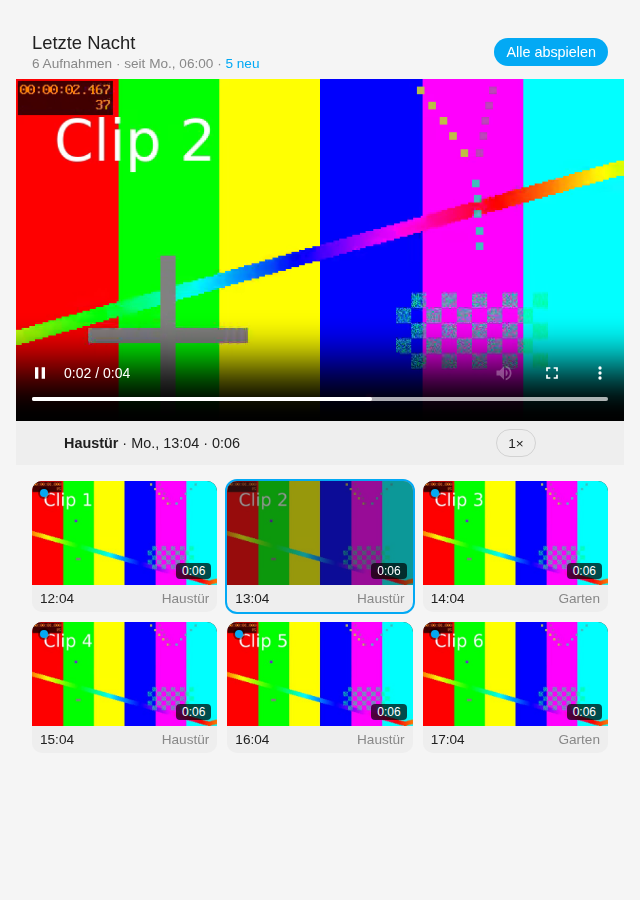
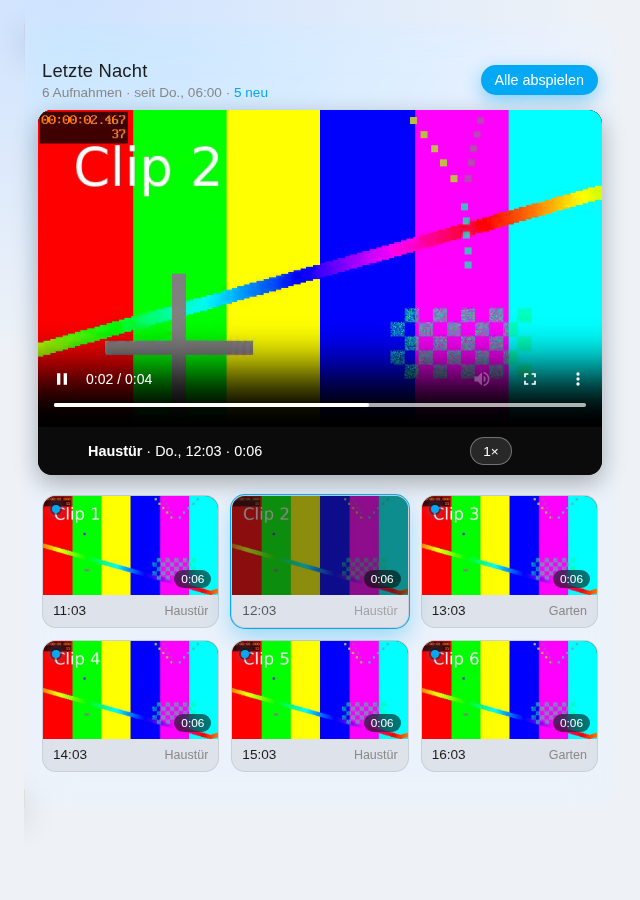
Glass look for the card, variant and CSS variables

diff --git a/custom_components/ss_recordings/frontend/ss-recordings-card.js b/custom_components/ss_recordings/frontend/ss-recordings-card.js
@@ -1,4 +1,4 @@
-const CARD_VERSION = "0.1.0";
+const CARD_VERSION = "0.2.0";
 
 const STRINGS = {
   en: {
@@ -73,6 +73,8 @@ class SSRecordingsCard extends HTMLElement {
       this.attachShadow({ mode: "open" });
     }
     this._items = null;
+    this._lastBody = null;
+    if (this.shadowRoot) this.shadowRoot.innerHTML = "";
     this._render();
     if (this._hass) this._load();
   }
@@ -142,8 +144,9 @@ class SSRecordingsCard extends HTMLElement {
 
   _shell() {
     if (this.shadowRoot.querySelector("ha-card")) return;
+    const variant = this._config.variant === "plain" ? "plain" : "glass";
     this.shadowRoot.innerHTML = `<style>${STYLE}</style>
-      <ha-card><div class="head"></div><div class="slot"></div><div class="body"></div></ha-card>`;
+      <ha-card class="${variant}"><div class="head"></div><div class="slot"></div><div class="body"></div></ha-card>`;
     this.shadowRoot.querySelector("ha-card").addEventListener("click", (ev) => {
       const el = ev.target.closest("[data-i],[data-act]");
       if (!el) return;
@@ -315,44 +318,109 @@ class SSRecordingsCard extends HTMLElement {
 }
 
 const STYLE = `
-  ha-card { overflow: hidden; }
-  .head { display: flex; align-items: center; justify-content: space-between; gap: 12px; padding: 16px 16px 8px; }
-  .title { font-size: 1.15em; font-weight: 500; color: var(--primary-text-color); }
-  .sub { font-size: .85em; color: var(--secondary-text-color); margin-top: 2px; }
-  .sub .new { color: var(--primary-color); font-weight: 500; }
+  :host {
+    --ss-accent: var(--ss-recordings-accent, var(--primary-color));
+    --ss-radius: var(--ss-recordings-radius, 18px);
+    --ss-blur: var(--ss-recordings-blur, 20px);
+    --ss-tint: var(--ss-recordings-tint, var(--card-background-color, #fff));
+  }
+  ha-card { overflow: hidden; border-radius: var(--ss-radius); }
+  ha-card.glass {
+    position: relative;
+    background: rgba(130, 130, 130, .18);
+    background: linear-gradient(
+      155deg,
+      color-mix(in srgb, var(--ss-tint) 66%, transparent),
+      color-mix(in srgb, var(--ss-tint) 38%, transparent)
+    );
+    border: 1px solid rgba(140, 140, 140, .25);
+    border: 1px solid color-mix(in srgb, var(--primary-text-color) 12%, transparent);
+    backdrop-filter: blur(var(--ss-blur)) saturate(165%);
+    -webkit-backdrop-filter: blur(var(--ss-blur)) saturate(165%);
+    box-shadow: 0 12px 34px rgba(0, 0, 0, .2), inset 0 1px 0 rgba(255, 255, 255, .22);
+  }
+  ha-card.glass::before {
+    content: "";
+    position: absolute;
+    inset: 0 0 auto;
+    height: 45%;
+    pointer-events: none;
+    background: linear-gradient(rgba(255, 255, 255, .16), transparent);
+  }
+  .head { position: relative; display: flex; align-items: center; justify-content: space-between; gap: 12px; padding: 18px 18px 10px; }
+  .title { font-size: 1.15em; font-weight: 500; letter-spacing: .01em; color: var(--primary-text-color); }
+  .sub { font-size: .85em; color: var(--secondary-text-color); margin-top: 3px; }
+  .sub .new { color: var(--ss-accent); font-weight: 500; }
   .actions { display: flex; align-items: center; gap: 4px; flex-shrink: 0; }
   button { font: inherit; cursor: pointer; border: none; background: none; color: inherit; }
-  .play { display: flex; align-items: center; gap: 4px; padding: 6px 12px 6px 8px; border-radius: 18px;
-    background: var(--primary-color); color: var(--text-primary-color, #fff); font-weight: 500; font-size: .9em; }
+  .play {
+    display: flex; align-items: center; gap: 4px; padding: 7px 14px 7px 9px; border-radius: 999px;
+    background: var(--ss-accent); color: var(--text-primary-color, #fff); font-weight: 500; font-size: .9em;
+    transition: transform .15s ease, box-shadow .15s ease;
+  }
+  .play:hover { transform: translateY(-1px); }
   .play ha-icon { --mdc-icon-size: 20px; }
-  .icon { display: grid; place-items: center; width: 36px; height: 36px; border-radius: 50%; color: var(--secondary-text-color); }
-  .icon:hover { background: var(--secondary-background-color); }
-  .player { background: #000; margin: 0 0 8px; }
+  .icon { display: grid; place-items: center; width: 36px; height: 36px; border-radius: 50%; color: var(--secondary-text-color); transition: background .15s ease; }
+  .icon:hover { background: rgba(140, 140, 140, .2); }
+  .glass .play { box-shadow: 0 6px 18px color-mix(in srgb, var(--ss-accent) 45%, transparent); }
+  .glass .icon:hover { background: color-mix(in srgb, var(--primary-text-color) 10%, transparent); }
+  .player { position: relative; background: #000; margin: 0 0 10px; }
   .player video { display: block; width: 100%; max-height: 60vh; background: #000; }
-  .bar { display: flex; align-items: center; gap: 4px; padding: 4px 8px; background: var(--secondary-background-color); }
+  .bar { display: flex; align-items: center; gap: 4px; padding: 6px 10px; background: var(--secondary-background-color); }
+  .glass .player { margin: 0 14px 12px; border-radius: 14px; overflow: hidden; box-shadow: 0 8px 24px rgba(0, 0, 0, .3); }
+  .glass .bar {
+    background: rgba(20, 20, 20, .55);
+    color: #fff;
+    backdrop-filter: blur(14px);
+    -webkit-backdrop-filter: blur(14px);
+  }
   .caption { flex: 1; min-width: 0; font-size: .9em; color: var(--primary-text-color); white-space: nowrap; overflow: hidden; text-overflow: ellipsis; }
-  .speed { min-width: 40px; height: 28px; border-radius: 14px; font-size: .85em; font-weight: 500;
+  .glass .caption, .glass .bar .icon { color: #fff; }
+  .glass .bar .icon:hover { background: rgba(255, 255, 255, .16); }
+  .speed { min-width: 42px; height: 28px; border-radius: 999px; font-size: .85em; font-weight: 500;
     color: var(--primary-text-color); border: 1px solid var(--divider-color); }
-  .grid { display: grid; grid-template-columns: repeat(auto-fill, minmax(140px, 1fr)); gap: 10px; padding: 8px 16px 16px; }
-  .day { grid-column: 1 / -1; font-size: .8em; font-weight: 500; text-transform: uppercase; letter-spacing: .04em;
+  .glass .speed { color: #fff; border-color: rgba(255, 255, 255, .35); background: rgba(255, 255, 255, .12); }
+  .grid { position: relative; display: grid; grid-template-columns: repeat(auto-fill, minmax(146px, 1fr)); gap: 12px; padding: 8px 18px 18px; }
+  .day { grid-column: 1 / -1; font-size: .78em; font-weight: 500; text-transform: uppercase; letter-spacing: .06em;
     color: var(--secondary-text-color); padding-top: 6px; }
-  .tile { display: block; padding: 0; text-align: left; border-radius: 10px; overflow: hidden;
-    background: var(--secondary-background-color); outline: 2px solid transparent; transition: outline-color .15s; }
-  .tile:hover { outline-color: var(--divider-color); }
-  .tile.playing { outline-color: var(--primary-color); }
-  .tile.seen .thumb img { opacity: .55; }
-  .thumb { position: relative; aspect-ratio: 16 / 9; display: grid; place-items: center; background: #1c1c1c; }
+  .tile {
+    display: block; padding: 0; text-align: left; border-radius: 14px; overflow: hidden;
+    background: var(--secondary-background-color);
+    border: 1px solid transparent;
+    transition: transform .18s ease, box-shadow .18s ease, border-color .18s ease;
+  }
+  .tile:hover { transform: translateY(-2px); }
+  .tile.playing { border-color: var(--ss-accent); }
+  .tile.seen .thumb img { opacity: .5; }
+  .tile.seen .meta { opacity: .7; }
+  .glass .tile {
+    background: rgba(140, 140, 140, .14);
+    background: color-mix(in srgb, var(--primary-text-color) 7%, transparent);
+    border-color: rgba(140, 140, 140, .22);
+    border-color: color-mix(in srgb, var(--primary-text-color) 9%, transparent);
+    box-shadow: inset 0 1px 0 rgba(255, 255, 255, .14);
+  }
+  .glass .tile:hover { box-shadow: 0 10px 22px rgba(0, 0, 0, .18), inset 0 1px 0 rgba(255, 255, 255, .2); }
+  .glass .tile.playing { box-shadow: 0 0 0 1px var(--ss-accent), 0 10px 24px color-mix(in srgb, var(--ss-accent) 35%, transparent); }
+  .thumb { position: relative; aspect-ratio: 16 / 9; display: grid; place-items: center; background: #1b1b1b; }
   .thumb img { position: absolute; inset: 0; width: 100%; height: 100%; object-fit: cover; }
   .thumb ha-icon { color: #666; }
-  .dur { position: absolute; right: 6px; bottom: 6px; padding: 1px 6px; border-radius: 4px; font-size: .75em;
-    background: rgba(0,0,0,.7); color: #fff; font-variant-numeric: tabular-nums; }
-  .dot { position: absolute; left: 8px; top: 8px; width: 8px; height: 8px; border-radius: 50%;
-    background: var(--primary-color); box-shadow: 0 0 0 2px rgba(0,0,0,.4); }
-  .meta { display: flex; justify-content: space-between; gap: 6px; padding: 6px 8px; font-size: .85em; }
+  .dur {
+    position: absolute; right: 7px; bottom: 7px; padding: 2px 7px; border-radius: 999px; font-size: .74em;
+    background: rgba(0, 0, 0, .55); color: #fff; font-variant-numeric: tabular-nums;
+    backdrop-filter: blur(6px); -webkit-backdrop-filter: blur(6px);
+  }
+  .dot { position: absolute; left: 9px; top: 9px; width: 8px; height: 8px; border-radius: 50%;
+    background: var(--ss-accent); box-shadow: 0 0 0 2px rgba(0, 0, 0, .35), 0 0 10px var(--ss-accent); }
+  .meta { display: flex; justify-content: space-between; align-items: baseline; gap: 6px; padding: 8px 10px 9px; font-size: .85em; }
   .time { color: var(--primary-text-color); font-weight: 500; font-variant-numeric: tabular-nums; }
-  .cam { color: var(--secondary-text-color); white-space: nowrap; overflow: hidden; text-overflow: ellipsis; }
-  .msg { padding: 16px; color: var(--secondary-text-color); text-align: center; }
+  .cam { color: var(--secondary-text-color); font-size: .92em; white-space: nowrap; overflow: hidden; text-overflow: ellipsis; }
+  .msg { position: relative; padding: 18px; color: var(--secondary-text-color); text-align: center; }
   .msg.error { color: var(--error-color); }
+  @media (prefers-reduced-motion: reduce) {
+    .tile, .play { transition: none; }
+    .tile:hover, .play:hover { transform: none; }
+  }
 `;
 
 if (!customElements.get("ss-recordings-card")) {

diff --git a/custom_components/ss_recordings/const.py b/custom_components/ss_recordings/const.py
@@ -1,7 +1,7 @@
 """Constants for Surveillance Station Recordings."""
 
 DOMAIN = "ss_recordings"
-VERSION = "0.1.0"
+VERSION = "0.2.0"
 
 CONF_VERIFY_SSL = "verify_ssl"
 CONF_LOOKBACK_HOURS = "lookback_hours"

diff --git a/README.md b/README.md
@@ -9,6 +9,7 @@ The built-in Synology DSM integration only exposes live streams. Event lists and
 ## Features
 
 - **Morning review card**: all clips since a time of your choice (default 20:00 the previous evening), grouped by day, newest marked as unseen.
+- **Glass look**: translucent, blurred card that picks up the colors of your theme, in light and dark.
 - **Play all**: plays unseen clips back to back, at 1×, 2× or 4× speed.
 - **Fast**: new clips are downloaded in the background and cached locally, so playback starts instantly.
 - **Works everywhere**: clips are served by Home Assistant itself through signed URLs, so they play in the browser, the companion app and over your VPN without exposing DSM.
@@ -78,6 +79,7 @@ After updating the integration, reload the browser once so the new card version 
 | `order` | `oldest` | `oldest` or `newest` first |
 | `speed` | `1` | Initial playback speed |
 | `autoplay_next` | `true` | Continue with the next clip when one ends |
+| `variant` | `glass` | `glass` for the translucent look, `plain` for a normal Home Assistant card |
 
 ```yaml
 type: custom:ss-recordings-card
@@ -90,6 +92,22 @@ speed: 2
 ```
 
 "Seen" state is stored per browser.
+
+#### Appearance
+
+The card is translucent and blurs whatever is behind it, so it works best on a dashboard with a background image or a colored theme. On a plain white background the effect is barely visible — `variant: plain` then gives the normal card look.
+
+Four CSS variables control the look. Set them in your theme (`themes.yaml`) to apply them to every instance of the card:
+
+```yaml
+my-theme:
+  ss-recordings-accent: "#ff9f0a"   # buttons, markers, highlight
+  ss-recordings-radius: 22px        # corner radius
+  ss-recordings-blur: 26px          # blur strength behind the card
+  ss-recordings-tint: "#101522"     # tint of the glass surface
+```
+
+Without these the card uses your theme's accent color and card background.
 
 ## Integration options
 
